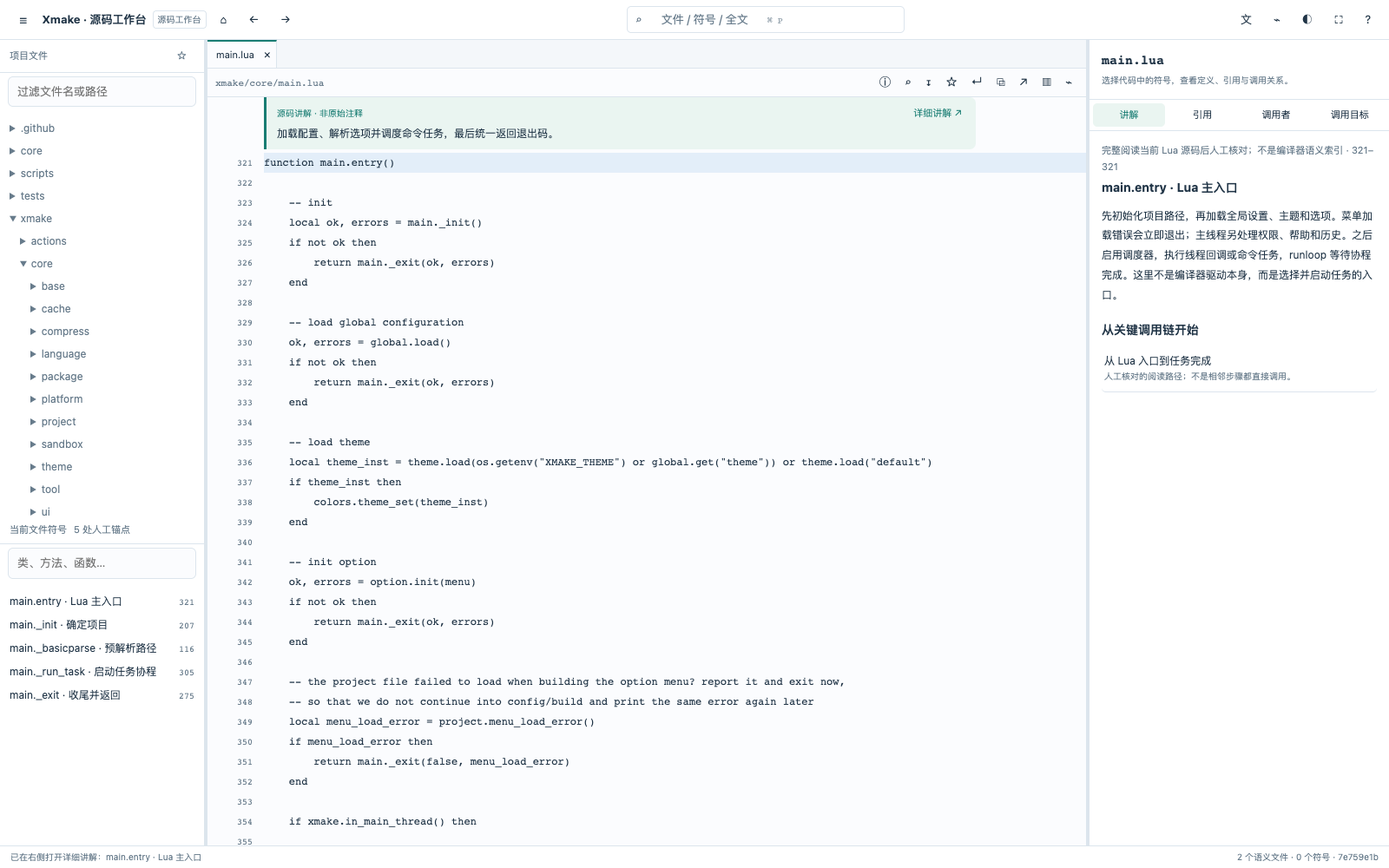
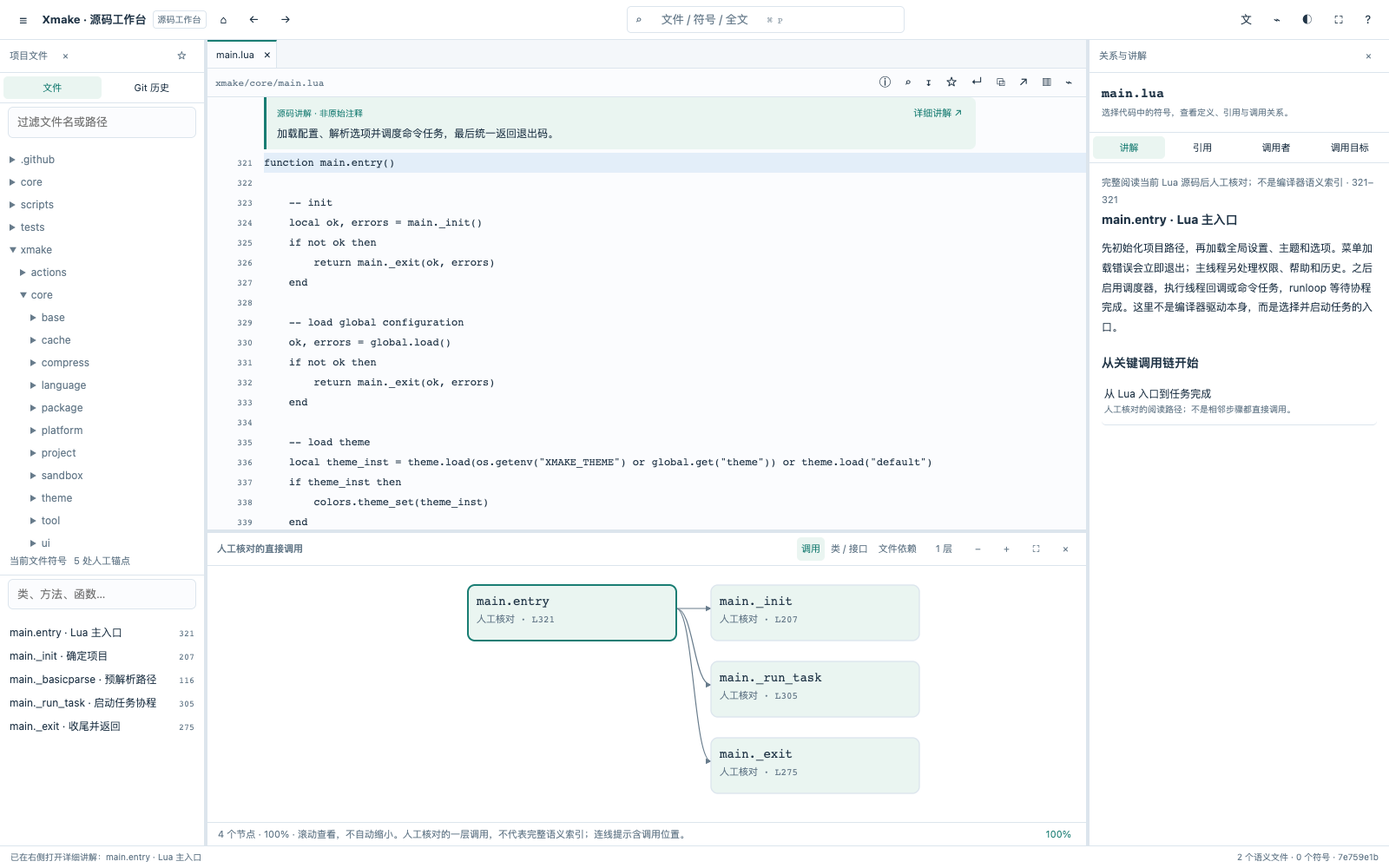
update skills

diff --git a/skills/source-insight/assets/app.js b/skills/source-insight/assets/app.js
@@ -8,6 +8,8 @@
   }
   const esc = x => String(x ?? '').replace(/[&<>"']/g, c => ({'&':'&amp;','<':'&lt;','>':'&gt;','"':'&quot;',"'":'&#39;'}[c]));
   const fileMap = new Map(D.files.map(f => [f.id, f])), symMap = new Map(D.symbols.map(s => [s.id, s]));
+  const manualKey=a=>'manual:'+a.file+':'+a.line;
+  const manualNodes=new Map((D.analysis.manualCalls||[]).flatMap(c=>[c.from,c.to]).map(a=>[manualKey(a),a]));
   const explained = new Set((D.analysis.notes||[]).map(n=>n.symbolId).filter(Boolean));
   const badge = id => explained.has(id)?'<span class="explained-badge" title="已有源码讲解">讲解</span>':'';
   const key = 'source-workbench:' + D.root;
@@ -16,7 +18,8 @@
   let current, symbol, selectedLine = 1, panel = 'explain', graphMode = 'both', depth = 1, zoom = 1, generation = 0;
   let tabs = (saved(':tabs') || []).filter(f => fileMap.get(f)?.readable), marks = (saved(':marks') || []).filter(m => fileMap.has(m.file));
   let searchMode = 'files', searchVersion = 0, chain, folded = new Set(), matches = [], matchCursor = -1;
-  let graphKey='', nodeLimit=13, docMode='summary';
+  let historyRefresh;
+  let graphKey='', nodeLimit=13, docMode='summary', nativeGraph=false;
   const outgoing = new Map(), incoming = new Map(), references = new Map();
   for (const call of D.calls) {
     if (!outgoing.has(call.from)) outgoing.set(call.from, []); outgoing.get(call.from).push(call);
@@ -141,7 +144,7 @@
     const token=++generation;status('读取 '+file);
     try{await load(file);}catch(e){status(e.message);return;}if(token!==generation)return;
     if(current!==file){docMode='summary';folded.clear();$('find-input').value='';}
-    current=file;selectedLine=Math.max(1,Math.min(Number(line)||1,f.lines));
+    current=file;historyRefresh?.();selectedLine=Math.max(1,Math.min(Number(line)||1,f.lines));
     if(selectedLine>1&&/\.(md|mdx|rst|txt)$/i.test(file))docMode='source';
     symbol=id?symMap.get(id):D.symbols.filter(s=>s.file===file&&s.line<=selectedLine&&s.end>=selectedLine).sort((a,b)=>(a.end-a.line)-(b.end-b.line))[0];
     for(const id of [...folded]){const s=symMap.get(id);if(selectedLine>s.line&&selectedLine<=s.end)folded.delete(id);}
@@ -180,17 +183,38 @@
       return `<div class="relation"><button data-file="${esc(r.file)}" data-line="${r.line}" title="跳到使用位置">${esc(r.expression||other?.qualified||'引用')} <small>${esc(r.file)}:${r.line}</small></button>${r.certainty?`<span class="tag">${certainty(r)}${r.deferred?' · 回调中':''}</span>`:''}${other?`<button data-symbol="${esc(other.id)}" title="跳到关联定义">${esc(other.qualified)} ↗</button>`:''}</div>`;
     }).join('')+(items.length>600?'<p>列表截取前 600 处；索引保留完整数据。</p>':'');
   }
+  function graphView() {
+    const full=$('graph-pane').classList.contains('expanded');
+    const button=document.querySelector('[data-action=graph-fullscreen]');
+    button.title=full?'退出调用图全屏（Esc）':'全屏调用图';button.setAttribute('aria-label',button.title);
+    button.setAttribute('aria-pressed',String(full));button.textContent=full?'⊡':'⛶';
+    const toggle=document.querySelector('[data-action=graph]');
+    const hidden=document.body.classList.contains('hidden-graph');
+    toggle.title=hidden?'显示调用图':'隐藏调用图';toggle.setAttribute('aria-label',toggle.title);toggle.setAttribute('aria-expanded',String(!hidden));
+  }
+  async function exitGraph() {
+    if(document.fullscreenElement===$('graph-pane'))await document.exitFullscreen();
+    nativeGraph=false;$('graph-pane').classList.remove('expanded');graphView();
+  }
+  document.addEventListener('fullscreenchange',()=>{
+    if(nativeGraph&&document.fullscreenElement!==$('graph-pane')){nativeGraph=false;$('graph-pane').classList.remove('expanded');graphView();}
+  });
   function graph(){
     let center=symbol?.id,nodes=new Map(),edges=[];
+    const manual=!center&&graphMode==='both'&&manualNodes.has(manualKey({file:current,line:selectedLine}));
+    if(manual)center=manualKey({file:current,line:selectedLine});
     const nextKey=(graphMode==='imports'?current:center)+':'+graphMode+':'+depth;
     if(nextKey!==graphKey){graphKey=nextKey;nodeLimit=13;$('graph').scrollTop=0;$('graph').scrollLeft=0;}
     const omitted=new Set();
     const add=(id,col,limit=nodeLimit)=>{if(nodes.has(id))return true;if(nodes.size>=limit){omitted.add(id);return false;}nodes.set(id,{id,col});omitted.delete(id);return true;};
-    if(graphMode==='imports'){
+    if(manual){
+      add(center,1);
+      for(const c of D.analysis.manualCalls){const from=manualKey(c.from),to=manualKey(c.to);if(from===center||to===center){add(from,from===center?1:0);add(to,to===center?1:2);edges.push({from,to,kind:`人工核对 · ${c.file}:${c.line} · ${c.note||'直接调用'}`});}}
+    }else if(graphMode==='imports'){
       center=current;if(!center)return;add(center,1);
       for(const e of D.imports){if(e.from===center&&e.to){add(e.to,2);edges.push({from:center,to:e.to});}else if(e.to===center){add(e.from,0);edges.push({from:e.from,to:center});}}
     }else{
-      if(!center){$('graph').innerHTML='<p class="empty">选中函数后显示调用图，选中类或接口可查看类型关系。</p>';return;}
+      if(!center){$('graph-caption').textContent='';$('graph').innerHTML='<p class="empty">选中函数后显示调用图，选中类或接口可查看类型关系。</p>';return;}
       add(center,depth);
       if(graphMode==='types'){
         for(const e of D.inheritance){if(e.from===center||e.to===center){add(e.from,e.from===center?depth:depth-1);add(e.to,e.to===center?depth:depth+1);edges.push(e);}}
@@ -210,9 +234,9 @@
     const unique=new Map(edges.map(e=>[e.from+'>'+e.to,e]));edges=[...unique.values()];
     const counts=new Map();for(const n of nodes.values()){const row=counts.get(n.col)||0;counts.set(n.col,row+1);n.x=20+n.col*280;n.y=22+row*88;}
     const width=(Math.max(...[...nodes.values()].map(n=>n.col))+1)*280+20,height=Math.max(160,Math.max(...counts.values())*86+45);
-    $('graph').innerHTML=`<svg viewBox="0 0 ${width} ${height}" style="width:${width*zoom}px;height:${height*zoom}px;min-width:0" aria-label="静态关系图"><defs><marker id="arrow" viewBox="0 0 10 10" refX="9" refY="5" markerWidth="6" markerHeight="6" orient="auto-start-reverse"><path d="M0 0L10 5L0 10z" fill="var(--muted)"/></marker></defs>${edges.map(e=>{const a=nodes.get(e.from),b=nodes.get(e.to),right=b.x>a.x;const sx=a.x+(right?240:0),ex=b.x+(right?0:240);return `<path class="graph-edge ${e.certainty==='contract'?'contract':''}" d="M${sx} ${a.y+27} C${(sx+ex)/2} ${a.y+27},${(sx+ex)/2} ${b.y+27},${ex} ${b.y+27}" marker-end="url(#arrow)"><title>${esc(e.kind||e.certainty||'调用 / 依赖')}</title></path>`;}).join('')}${[...nodes.values()].map(n=>{const s=symMap.get(n.id),name=s?.qualified||n.id.split('/').pop(),sub=s?`${explained.has(s.id)?'已讲解 · ':''}${s.kind} · L${s.line}`:n.id;return `<g class="graph-node ${n.id===center?'selected':''}" ${s?`data-symbol="${esc(n.id)}"`:`data-file="${esc(n.id)}"`} tabindex="0" role="button" aria-label="${esc(name)}"><title>${esc(name+'\n'+sub)}</title><rect x="${n.x}" y="${n.y}" width="240" height="64" rx="8"/><text x="${n.x+10}" y="${n.y+23}">${esc(name.length>28?name.slice(0,26)+'…':name)}</text><text class="sub" x="${n.x+10}" y="${n.y+43}">${esc(sub.length>30?'…'+sub.slice(-28):sub)}</text></g>`;}).join('')}</svg>`;
-    $('graph-title').textContent=graphMode==='imports'?'文件依赖':graphMode==='types'?'extends / implements':'调用者 → 当前 → 调用目标';
-    $('graph-caption').innerHTML=`<span>${nodes.size} 个节点 · ${Math.round(zoom*100)}% · 滚动查看，不自动缩小${omitted.size?` · 当前展开范围另有 ${omitted.size} 个节点未显示`:''}。${graphMode==='both'?'完整调用位置见右侧；虚线表示接口或声明。':'箭头指向依赖或基类型。'}</span>${omitted.size&&nodeLimit<61?'<button data-action="graph-more">展开更多</button>':''}<button data-action="zoom-reset" title="恢复清晰字号">100%</button>`;
+    $('graph').innerHTML=`<svg viewBox="0 0 ${width} ${height}" style="width:${width*zoom}px;height:${height*zoom}px;min-width:0" aria-label="静态关系图"><defs><marker id="arrow" viewBox="0 0 10 10" refX="9" refY="5" markerWidth="6" markerHeight="6" orient="auto-start-reverse"><path d="M0 0L10 5L0 10z" fill="var(--muted)"/></marker></defs>${edges.map(e=>{const a=nodes.get(e.from),b=nodes.get(e.to),right=b.x>a.x;const sx=a.x+(right?240:0),ex=b.x+(right?0:240);return `<path class="graph-edge ${e.certainty==='contract'?'contract':''}" d="M${sx} ${a.y+27} C${(sx+ex)/2} ${a.y+27},${(sx+ex)/2} ${b.y+27},${ex} ${b.y+27}" marker-end="url(#arrow)"><title>${esc(e.kind||e.certainty||'调用 / 依赖')}</title></path>`;}).join('')}${[...nodes.values()].map(n=>{const s=symMap.get(n.id),m=manualNodes.get(n.id),name=s?.qualified||m?.name||n.id.split('/').pop(),sub=m?`人工核对 · L${m.line}`:s?`${explained.has(s.id)?'已讲解 · ':''}${s.kind} · L${s.line}`:n.id;return `<g class="graph-node ${n.id===center?'selected':''}" ${s?`data-symbol="${esc(n.id)}"`:`data-file="${esc(m?.file||n.id)}" data-line="${m?.line||1}"`} tabindex="0" role="button" aria-label="${esc(name)}"><title>${esc(name+'\n'+sub)}</title><rect x="${n.x}" y="${n.y}" width="240" height="64" rx="8"/><text x="${n.x+10}" y="${n.y+23}">${esc(name.length>28?name.slice(0,26)+'…':name)}</text><text class="sub" x="${n.x+10}" y="${n.y+43}">${esc(sub.length>30?'…'+sub.slice(-28):sub)}</text></g>`;}).join('')}</svg>`;
+    $('graph-title').textContent=manual?'人工核对的直接调用':graphMode==='imports'?'文件依赖':graphMode==='types'?'extends / implements':'调用者 → 当前 → 调用目标';
+    $('graph-caption').innerHTML=`<span>${nodes.size} 个节点 · ${Math.round(zoom*100)}% · 滚动查看，不自动缩小${omitted.size?` · 当前展开范围另有 ${omitted.size} 个节点未显示`:''}。${manual?'人工核对的一层调用，不代表完整语义索引；连线提示含调用位置。':graphMode==='both'?'完整调用位置见右侧；虚线表示接口或声明。':'箭头指向依赖或基类型。'}</span>${omitted.size&&nodeLimit<61?'<button data-action="graph-more">展开更多</button>':''}<button data-action="zoom-reset" title="恢复清晰字号">100%</button>`;
   }
   function search(mode=searchMode){searchMode=mode;$('search-dialog').showModal();document.querySelectorAll('[data-search]').forEach(b=>b.classList.toggle('active',b.dataset.search===mode));$('search-input').value='';$('search-input').focus();results();}
   function showResults(items,label){$('search-status').textContent=label;$('results').innerHTML=items.join('')||'<p class="empty">没有结果。</p>';}
@@ -246,6 +270,7 @@
     $('info-dialog').showModal();
   }
   document.addEventListener('click',async event=>{
+    if(event.target.closest('.graph-node')&&$('graph-pane').classList.contains('expanded'))await exitGraph();
     const docTab=event.target.closest('[data-doc]');if(docTab){docMode=docTab.dataset.doc;code();$('code').scrollTop=0;return;}
     const explanation=event.target.closest('[data-explain]');
     if(explanation){
@@ -267,6 +292,14 @@
     const g=event.target.closest('[data-graph]');if(g){graphMode=g.dataset.graph;document.querySelectorAll('[data-graph]').forEach(el=>el.classList.toggle('active',el===g));graph();return;}
     const mode=event.target.closest('[data-search]');if(mode){searchMode=mode.dataset.search;document.querySelectorAll('[data-search]').forEach(el=>el.classList.toggle('active',el===mode));results();return;}
     const a=event.target.closest('[data-action]')?.dataset.action;if(!a)return;
+    if(a==='graph-fullscreen'){
+      if($('graph-pane').classList.contains('expanded'))await exitGraph();
+      else{document.body.classList.remove('hidden-graph');$('graph-pane').classList.add('expanded');graphView();try{nativeGraph=true;await $('graph-pane').requestFullscreen();}catch{nativeGraph=false;} }
+      return;
+    }
+    if(a==='graph-hide'){await exitGraph();document.body.classList.add('hidden-graph');graphView();return;}
+    if(a==='hide-left'){document.body.classList.remove('mobile-left');if(!matchMedia('(max-width:720px)').matches)document.body.classList.add('hidden-left');return;}
+    if(a==='hide-right'){document.body.classList.remove('mobile-right');if(!matchMedia('(max-width:720px)').matches)document.body.classList.add('hidden-right');return;}
     if(a==='entry'){const s=D.analysis.start;if(s){panel='explain';chain=undefined;go(s.file,s.line,s.symbolId);}return;}
     if(a==='file-intro'){$('code').scrollTop=0;return;}
     if(a==='graph-more'){nodeLimit=Math.min(61,nodeLimit+12);graph();return;}
@@ -275,7 +308,7 @@
     else if(a==='search-close'){$('search-dialog').close();searchVersion++;}else if(a==='info-close')$('info-dialog').close();else if(a==='help')help();
     else if(a==='sidebar')document.body.classList.toggle(matchMedia('(max-width:720px)').matches?'mobile-left':'hidden-left');
     else if(a==='inspector')document.body.classList.toggle(matchMedia('(max-width:720px)').matches?'mobile-right':'hidden-right');
-    else if(a==='graph')document.body.classList.toggle('hidden-graph');
+    else if(a==='graph'){document.body.classList.toggle('hidden-graph');graphView();}
     else if(a==='theme'){const theme=document.documentElement.dataset.theme==='dark'?'light':'dark';document.documentElement.dataset.theme=theme;try{localStorage.setItem('source-theme',theme);}catch{}}
     else if(a==='fullscreen'){try{if(document.fullscreenElement)await document.exitFullscreen();else await document.documentElement.requestFullscreen();}catch(e){status('浏览器未允许全屏：'+e.message);}}
     else if(a==='wrap')$('code').classList.toggle('wrap');
@@ -296,6 +329,11 @@
   $('search-dialog').addEventListener('close',()=>searchVersion++);
   $('find-input').oninput=()=>{matchCursor=-1;find();};$('find-input').onkeydown=e=>{if(e.key==='Enter')find(e.shiftKey?-1:1);};
   document.addEventListener('keydown',e=>{
+    if($('graph-pane').classList.contains('expanded')){
+      if(e.key==='Escape'){e.preventDefault();exitGraph();return;}
+      if(['ArrowDown','ArrowUp','ArrowLeft','ArrowRight','PageDown','PageUp'].includes(e.key)){e.preventDefault();const horizontal=['ArrowLeft','ArrowRight'].includes(e.key),amount=(['ArrowUp','ArrowLeft','PageUp'].includes(e.key)?-1:1)*(e.key.startsWith('Page')?$('graph').clientHeight*.8:69);$('graph').scrollBy(horizontal?amount:0,horizontal?0:amount);return;}
+      if(e.key!=='Enter'&&e.key!=='Tab'){e.preventDefault();return;}
+    }
     if(e.target.closest('input,textarea,dialog'))return;
     const mod=e.ctrlKey||e.metaKey;
     if(mod&&['p','t','f','l'].includes(e.key.toLowerCase())){e.preventDefault();const k=e.key.toLowerCase();if(k==='p')search('files');if(k==='t')search('symbols');if(k==='f'){if(e.shiftKey)search('text');else document.querySelector('[data-action=find]').click();}if(k==='l')document.querySelector('[data-action=line]').click();}
@@ -307,6 +345,7 @@
     $(id).onpointerdown=e=>{e.preventDefault();const start=e[axis],size=parseFloat(getComputedStyle(document.documentElement).getPropertyValue(variable));$(id).setPointerCapture(e.pointerId);$(id).onpointermove=m=>document.documentElement.style.setProperty(variable,Math.max(min,Math.min(max,size+(m[axis]-start)*sign))+'px');$(id).onpointerup=()=>{$(id).onpointermove=null;};};
   }
   function hash(){const p=new URLSearchParams(location.hash.slice(1));if(p.has('file'))open(p.get('file'),Number(p.get('line'))||1,p.get('symbol'));}
-  window.addEventListener('hashchange',hash);fileTree();
+  historyRefresh=window.initSourceHistory({data:D,currentFile:()=>current,openSource:go});
+  window.addEventListener('hashchange',hash);fileTree();graphView();
   if(location.hash.startsWith('#file='))hash();else{const first=D.analysis.start||saved(':last')||{file:D.files.find(f=>f.readable&&f.language==='typescript')?.id||D.files.find(f=>f.readable)?.id,line:1};if(first.file)go(first.file,first.line,first.symbolId||first.id);}
 })();

diff --git a/skills/source-insight/assets/index.html b/skills/source-insight/assets/index.html
@@ -1,10 +1,10 @@
 <!doctype html>
 <html lang="zh-CN"><head><meta charset="utf-8"><meta name="viewport" content="width=device-width,initial-scale=1"><title>源码工作台</title><script>try{document.documentElement.dataset.theme=localStorage.getItem('source-theme')||'light'}catch{}</script><link rel="stylesheet" href="style.css"></head>
 <body><header><button data-action="sidebar" title="显示或隐藏文件与符号" aria-label="显示或隐藏文件与符号">☰</button><strong id="title"></strong><span class="badge">源码工作台</span><button data-action="entry" title="回到主入口函数" aria-label="回到主入口函数">⌂</button><button data-action="back" title="后退 Alt+←">←</button><button data-action="forward" title="前进 Alt+→">→</button><button id="quick" data-action="search" title="搜索文件、符号和全文 Ctrl/⌘ P">⌕ <span>文件 / 符号 / 全文</span><kbd>⌘ P</kbd></button><button data-action="documents" title="关键文档 · 中文概要与译文" aria-label="关键文档">文</button><button data-action="chains" title="已分析的关键调用链">⌁</button><button data-action="theme" title="切换日夜主题">◐</button><button data-action="fullscreen" title="全屏">⛶</button><button data-action="help" title="使用帮助与分析范围">?</button></header>
-<div id="workspace"><aside id="left"><div class="pane-title">项目文件 <button data-action="bookmarks" title="查看书签">☆</button></div><input id="file-filter" aria-label="过滤文件" placeholder="过滤文件名或路径"><nav id="tree"></nav><div class="pane-title">当前文件符号 <span id="outline-count"></span></div><input id="symbol-filter" aria-label="过滤当前文件符号" placeholder="类、方法、函数…"><nav id="outline"></nav></aside><div class="resizer" id="left-resizer" role="separator" aria-label="调整文件栏宽度"></div>
-<main><nav id="tabs"></nav><div id="code-toolbar"><span id="breadcrumb"></span><button data-action="file-intro" title="查看文件介绍" aria-label="查看文件介绍">ⓘ</button><button data-action="find" title="文件内查找 Ctrl/⌘ F">⌕</button><button data-action="line" title="跳到行 Ctrl/⌘ L">↧</button><button data-action="bookmark" title="添加或移除当前行书签">☆</button><button data-action="wrap" title="自动换行">↵</button><button data-action="copy" title="复制当前函数或全文">⧉</button><button data-action="editor" title="在 VS Code 打开真实文件">↗</button><button data-action="inspector" title="显示或隐藏关系与讲解">▥</button><button data-action="graph" title="显示或隐藏调用图">⌁</button></div><div id="findbar" hidden><input id="find-input" placeholder="查找当前文件文本" aria-label="查找当前文件文本"><button data-action="find-prev" title="上一个匹配">↑</button><button data-action="find-next" title="下一个匹配">↓</button><span id="find-count"></span><button data-action="find-close" title="关闭查找">×</button></div><div id="doc-tabs" hidden></div><div id="code" tabindex="0" aria-label="源代码"></div><div class="resizer horizontal" id="graph-resizer" role="separator" aria-label="调整调用图高度"></div><section id="graph-pane"><div class="pane-title"><strong id="graph-title">调用关系</strong><div class="segmented"><button data-graph="both" class="active">调用</button><button data-graph="types">类 / 接口</button><button data-graph="imports">文件依赖</button></div><button data-action="depth" title="切换一层或两层调用">1 层</button><button data-action="zoom-out" title="缩小图">−</button><button data-action="zoom-in" title="放大图">+</button></div><div id="graph"></div><small id="graph-caption"></small></section></main>
-<div class="resizer" id="right-resizer" role="separator" aria-label="调整关系栏宽度"></div><aside id="right"><div id="symbol-head"></div><nav id="relation-tabs" class="segmented"><button data-panel="explain" class="active">讲解</button><button data-panel="references">引用</button><button data-panel="callers">调用者</button><button data-panel="callees">调用目标</button></nav><div id="inspector"></div></aside></div>
+<div id="workspace"><aside id="left"><div class="pane-title">项目文件 <button data-action="hide-left" title="隐藏文件侧栏" aria-label="隐藏文件侧栏">×</button><button data-action="bookmarks" title="查看书签">☆</button></div><nav class="segmented side-tabs"><button data-side-tab="files" class="active">文件</button><button data-side-tab="git">Git 历史</button></nav><section id="history-sidebar"><div class="segmented"><button data-history-scope="file">当前文件</button><button data-history-scope="all" class="active">整个项目</button></div><input id="history-filter" placeholder="搜索提交或 SHA" aria-label="搜索 Git 提交"><small id="history-scope-note"></small><nav id="history-list"></nav></section><input id="file-filter" aria-label="过滤文件" placeholder="过滤文件名或路径"><nav id="tree"></nav><div class="pane-title">当前文件符号 <span id="outline-count"></span></div><input id="symbol-filter" aria-label="过滤当前文件符号" placeholder="类、方法、函数…"><nav id="outline"></nav></aside><div class="resizer" id="left-resizer" role="separator" aria-label="调整文件栏宽度"></div>
+<main><nav id="tabs"></nav><div id="code-toolbar"><span id="breadcrumb"></span><button data-action="file-intro" title="查看文件介绍" aria-label="查看文件介绍">ⓘ</button><button data-action="find" title="文件内查找 Ctrl/⌘ F">⌕</button><button data-action="line" title="跳到行 Ctrl/⌘ L">↧</button><button data-action="bookmark" title="添加或移除当前行书签">☆</button><button data-action="wrap" title="自动换行">↵</button><button data-action="copy" title="复制当前函数或全文">⧉</button><button data-action="editor" title="在 VS Code 打开真实文件">↗</button><button data-action="inspector" title="显示或隐藏关系与讲解">▥</button><button data-action="graph" title="显示或隐藏调用图">⌁</button></div><div id="findbar" hidden><input id="find-input" placeholder="查找当前文件文本" aria-label="查找当前文件文本"><button data-action="find-prev" title="上一个匹配">↑</button><button data-action="find-next" title="下一个匹配">↓</button><span id="find-count"></span><button data-action="find-close" title="关闭查找">×</button></div><div id="doc-tabs" hidden></div><div id="code" tabindex="0" aria-label="源代码"></div><div class="resizer horizontal" id="graph-resizer" role="separator" aria-label="调整调用图高度"></div><section id="graph-pane"><div class="pane-title"><strong id="graph-title">调用关系</strong><div class="segmented"><button data-graph="both" class="active">调用</button><button data-graph="types">类 / 接口</button><button data-graph="imports">文件依赖</button></div><button data-action="depth" title="切换一层或两层调用">1 层</button><button data-action="zoom-out" title="缩小图">−</button><button data-action="zoom-in" title="放大图">+</button><button data-action="graph-fullscreen" title="全屏调用图" aria-label="全屏调用图" aria-pressed="false">⛶</button><button data-action="graph-hide" title="隐藏调用图" aria-label="隐藏调用图">×</button></div><div id="graph"></div><small id="graph-caption"></small></section></main>
+<div class="resizer" id="right-resizer" role="separator" aria-label="调整关系栏宽度"></div><aside id="right"><div class="pane-title">关系与讲解<button data-action="hide-right" title="隐藏讲解侧栏" aria-label="隐藏讲解侧栏">×</button></div><div id="symbol-head"></div><nav id="relation-tabs" class="segmented"><button data-panel="explain" class="active">讲解</button><button data-panel="references">引用</button><button data-panel="callers">调用者</button><button data-panel="callees">调用目标</button></nav><div id="inspector"></div></aside></div>
 <footer><span id="status" role="status"></span><span id="coverage"></span></footer>
 <dialog id="search-dialog"><div class="dialog-bar"><div class="segmented"><button data-search="files" class="active">文件</button><button data-search="symbols">符号</button><button data-search="text">全文</button><button data-search="explained">已讲解</button><button data-search="chains">调用链讲解</button><button data-search="documents">中文文档</button><button data-search="bookmarks">书签</button></div><button data-action="search-close" title="关闭">×</button></div><input id="search-input" aria-label="搜索" placeholder="输入名称；全文搜索按 Enter"><small id="search-status"></small><nav id="results"></nav></dialog>
 <dialog id="info-dialog"><button data-action="info-close" class="close" title="关闭">×</button><div id="info"></div></dialog>
-<script src="data.js"></script><script src="app.js"></script></body></html>
+<dialog id="history-dialog"><div class="history-header"><strong>Git 历史与代码差异</strong><button data-history-close title="关闭 Git 差异" aria-label="关闭 Git 差异">×</button></div><div id="history-content"></div></dialog><script src="history-view.js"></script><script src="data.js"></script><script src="app.js"></script></body></html>

diff --git a/skills/source-insight/assets/history-view.js b/skills/source-insight/assets/history-view.js
@@ -1,0 +1,52 @@
+// Git 快照查看器：提交说明、当前文件过滤与真实补丁共用一个离线数据源。
+window.initSourceHistory = ({data,currentFile,openSource}) => {
+  const $=id=>document.getElementById(id), esc=x=>String(x??'').replace(/[&<>"']/g,c=>({'&':'&amp;','<':'&lt;','>':'&gt;','"':'&quot;',"'":'&#39;'}[c]));
+  window.SOURCE_HISTORY={};
+  let scope='all',selection,selectedFile='',view='unified',request=0;
+  function refresh(){
+    const q=$('history-filter').value.toLowerCase();
+    const entries=(data.history?.commits||[]).filter(c=>(scope==='all'||c.files.includes(currentFile()))&&(c.title+' '+c.id).toLowerCase().includes(q));
+    $('history-list').innerHTML=entries.map(c=>`<button class="history-item" data-commit="${esc(c.id)}"><b>${esc(c.title)}</b><small>${c.working?'工作区':c.id.slice(0,8)+' · '+c.date.slice(0,10)} · ${c.files.length} 文件</small></button>`).join('')||'<p class="empty">此范围没有收录的改动。可切换整个项目；历史范围有限。</p>';
+    $('history-scope-note').textContent=scope==='file'?currentFile()||'先打开一个文件':data.history?.range||'尚未生成 Git 快照，请重新构建。';
+  }
+  async function selectCommit(id){
+    const token=++request,meta=data.history?.commits.find(c=>c.id===id);if(!meta)return;
+    $('history-dialog').showModal();$('history-content').innerHTML='<p class="empty">读取提交差异…</p>';
+    try{
+      if(!window.SOURCE_HISTORY[id])await new Promise((resolve,reject)=>{const script=document.createElement('script');script.src=meta.chunk;script.onload=()=>{script.remove();resolve();};script.onerror=()=>{script.remove();reject(new Error('Git 快照加载失败'));};document.head.append(script);});
+      if(token!==request)return;selection=window.SOURCE_HISTORY[id];selectedFile=selection.files.find(f=>f.file===currentFile())?.file||selection.files[0]?.file;render();
+    }catch(error){if(token===request)$('history-content').textContent=error.message;}
+  }
+  function diff(patch){
+    let old=0,next=0;const rows=[];
+    for(const text of patch.split('\n')){
+      const hunk=text.match(/^@@ -(\d+)(?:,\d+)? \+(\d+)(?:,\d+)? @@/);
+      if(hunk){old=Number(hunk[1]);next=Number(hunk[2]);rows.push({kind:'hunk',text});continue;}
+      if(!old||/^(diff |index |--- |\+\+\+ |new file|deleted file|Binary |\\)/.test(text)){rows.push({kind:'meta',text});continue;}
+      if(text.startsWith('-'))rows.push({kind:'delete',text:text.slice(1),old:old++});
+      else if(text.startsWith('+'))rows.push({kind:'add',text:text.slice(1),next:next++});
+      else if(text.startsWith(' '))rows.push({kind:'context',text:text.slice(1),old:old++,next:next++});
+      else rows.push({kind:'meta',text});
+    }
+    if(view==='unified')return rows.map(r=>`<div class="diff-row ${r.kind}"><span>${r.old||''}</span><span>${r.next||''}</span><code>${r.kind==='add'?'+':r.kind==='delete'?'-':' '}${esc(r.text)}</code></div>`).join('');
+    const result=[];
+    const cell=(r,side)=>`<div class="diff-cell ${r?.kind||''}"><span>${r?.[side]||''}</span><code>${esc(r?.text||'')}</code></div>`;
+    for(let i=0;i<rows.length;){const row=rows[i];if(row.kind==='add'||row.kind==='delete'){const removed=[],added=[];while(i<rows.length&&['add','delete'].includes(rows[i].kind)){const r=rows[i++];(r.kind==='delete'?removed:added).push(r);}for(let j=0;j<Math.max(removed.length,added.length);j++)result.push('<div class="diff-pair">'+cell(removed[j],'old')+cell(added[j],'next')+'</div>');}else{result.push(row.kind==='context'?'<div class="diff-pair">'+cell(row,'old')+cell(row,'next')+'</div>':`<div class="diff-meta">${esc(row.text)}</div>`);i++;}}
+    return result.join('');
+  }
+  function render(){
+    const c=selection,f=c.files.find(f=>f.file===selectedFile);
+    $('history-content').innerHTML=`<section class="commit-summary"><small>${c.working?'工作区对比 HEAD':esc(c.id+' · '+c.author+' · '+c.date)} · ${c.analyzed?'源码分析':'未人工分析'}</small><h2>${esc(c.title)}</h2><p>${esc(c.summary)}</p>${c.body?`<details><summary>提交原文</summary><p>${esc(c.body)}</p></details>`:''}</section><div class="history-layout"><nav class="commit-files">${c.files.map(item=>`<button class="history-item ${item.file===selectedFile?'active':''}" data-diff-file="${esc(item.file)}"><b>${esc(item.file)}</b><small>+${esc(item.add)} −${esc(item.del)}${item.analyzed?' · 已讲解':''}</small></button>`).join('')}${c.totalFiles>c.files.length?'<p>文件清单已截断。</p>':''}</nav><section class="file-diff">${f?`<div class="diff-toolbar"><strong>${esc(f.file)}</strong><button data-diff-view="unified" aria-pressed="${view==='unified'}">统一</button><button data-diff-view="split" aria-pressed="${view==='split'}">左右</button><button data-history-source="${esc(f.file)}" title="查看当前快照源码">↗</button></div><p class="diff-summary">${esc(f.summary)}${f.truncated?' 差异已截断。':''}</p><div class="diff-code">${diff(f.patch)}</div>`:'<p class="empty">没有已跟踪文件的改动。</p>'}</section></div>`;
+  }
+  document.addEventListener('click',event=>{
+    const tab=event.target.closest('[data-side-tab]');if(tab){document.body.classList.toggle('show-history',tab.dataset.sideTab==='git');document.querySelectorAll('[data-side-tab]').forEach(b=>b.classList.toggle('active',b===tab));refresh();return;}
+    const filter=event.target.closest('[data-history-scope]');if(filter){scope=filter.dataset.historyScope;document.querySelectorAll('[data-history-scope]').forEach(b=>b.classList.toggle('active',b===filter));refresh();return;}
+    const commit=event.target.closest('[data-commit]');if(commit){selectCommit(commit.dataset.commit);return;}
+    const file=event.target.closest('[data-diff-file]');if(file){selectedFile=file.dataset.diffFile;render();return;}
+    const mode=event.target.closest('[data-diff-view]');if(mode){view=mode.dataset.diffView;render();return;}
+    const source=event.target.closest('[data-history-source]');if(source){$('history-dialog').close();openSource(source.dataset.historySource);return;}
+    if(event.target.closest('[data-history-close]'))$('history-dialog').close();
+  });
+  $('history-dialog').addEventListener('close',()=>request++);
+  $('history-filter').oninput=refresh;refresh();return refresh;
+};

diff --git a/skills/source-insight/assets/style.css b/skills/source-insight/assets/style.css
@@ -29,3 +29,13 @@
 .reading-doc #graph-pane,.reading-doc #graph-resizer{display:none}
 .document{max-width:900px;margin:10px auto;padding:20px 32px;font:14px/1.9 system-ui;overflow-wrap:anywhere}.document small{font-size:11px;color:var(--muted)}.document h1{font-size:26px}.document h2{font-size:20px;margin-top:30px}.document h3{font-size:17px}.document p{white-space:pre-wrap}.document pre{overflow:auto;background:var(--bg);border:1px solid var(--line);padding:15px;border-radius:8px;font:12px/1.8 monospace;white-space:pre}.document code{font-family:ui-monospace,monospace;color:var(--accent)}.doc-link{color:var(--accent);padding:0;text-decoration:underline}.doc-next{display:flex;gap:6px;flex-wrap:wrap;border-top:1px solid var(--line);padding-top:16px}.doc-next button{background:var(--soft);color:var(--accent)}
 @media(max-width:720px){.document{padding:12px 18px}.doc-tabs{gap:2px;padding:5px}.doc-tabs button{padding:4px 5px;font-size:11px}}
+
+/* 独立图视图：原面板留在 DOM 中，恢复时保留缩放、滚动与高度。 */
+#graph-pane.expanded,#graph-pane:fullscreen{position:fixed;inset:0;z-index:30;width:100vw;height:100dvh;min-height:0;display:flex;background:var(--panel);padding:8px}
+#graph-pane .pane-title>button:last-child{margin-left:0}#graph-pane .pane-title>button{flex-shrink:0}
+#graph-title{min-width:0;overflow:hidden;text-overflow:ellipsis;white-space:nowrap}
+@media(min-width:721px){.hidden-left #left,.hidden-right #right{visibility:hidden}}
+@media(max-width:720px){#graph-pane .pane-title{flex-wrap:wrap}#graph-title{flex:1 0 100%}#graph-pane .segmented{margin-left:0;margin-right:auto}#graph-caption{font-size:10px}}
+
+#history-sidebar{display:none;flex-direction:column;min-height:120px;height:50%;overflow:hidden}.show-history #history-sidebar{display:flex}.show-history #tree,.show-history #file-filter{display:none}#history-sidebar>input{margin:6px 8px}#history-scope-note{font-size:10px;color:var(--muted);padding:3px 10px;overflow-wrap:anywhere}#history-list{overflow:auto;flex:1}.history-item{display:block;width:100%;padding:9px 10px;text-align:left;border-bottom:1px solid var(--line);overflow-wrap:anywhere}.history-item b{display:block;font-size:12px;font-weight:500}.history-item small{font-size:10px;color:var(--muted)}.history-item.active{background:var(--soft);color:var(--accent)}
+#history-dialog{inset:0;margin:0;width:100vw;max-width:none;height:100dvh;max-height:none;border:0;border-radius:0;padding:0;overflow:hidden}#history-dialog[open]{display:flex;flex-direction:column}.history-header{display:flex;align-items:center;justify-content:space-between;padding:8px 16px;border-bottom:1px solid var(--line)}#history-content{display:flex;flex-direction:column;min-height:0;flex:1}.commit-summary{padding:12px 20px;max-height:25vh;overflow:auto}.commit-summary h2{font-size:18px;margin:3px 0}.commit-summary small{color:var(--muted);font-size:11px}.commit-summary p{font-size:12px;white-space:pre-wrap;margin:5px 0}.history-layout{display:grid;grid-template-columns:260px minmax(0,1fr);min-height:0;flex:1;border-top:1px solid var(--line)}.commit-files{overflow:auto;border-right:1px solid var(--line)}.file-diff{min-width:0;display:flex;flex-direction:column;overflow:hidden}.diff-toolbar{display:flex;align-items:center;gap:6px;padding:7px 12px;background:var(--bg)}.diff-toolbar strong{flex:1;font:12px monospace;overflow-wrap:anywhere}.diff-toolbar button[aria-pressed=true]{background:var(--soft);color:var(--accent)}.diff-summary{font-size:12px;padding:4px 12px;margin:4px 0;white-space:pre-wrap}.diff-code{overflow:auto;flex:1;font:12px/22px ui-monospace,monospace;background:var(--code);min-height:0}.diff-row{display:flex;min-width:100%;width:max-content}.diff-row>span{width:45px;flex-shrink:0;color:var(--muted);text-align:right;padding-right:8px}.diff-code code{white-space:pre;padding:0 8px;font:inherit}.diff-row.add,.diff-cell.add{background:#dff4e7;color:#214b31}.diff-row.delete,.diff-cell.delete{background:#fbe5e5;color:#763535}.diff-row.hunk,.diff-meta{background:var(--selected);color:var(--muted)}.diff-pair{display:grid;grid-template-columns:minmax(0,1fr) minmax(0,1fr)}.diff-cell{display:flex;min-width:0;overflow-x:auto;border-right:1px solid var(--line)}.diff-cell>span{min-width:45px;color:var(--muted);text-align:right}.diff-meta{white-space:pre-wrap;padding:0 8px}.diff-row.meta{color:var(--muted)}[data-theme=dark] .diff-row.add,[data-theme=dark] .diff-cell.add{background:#183e32;color:#c3ead2}[data-theme=dark] .diff-row.delete,[data-theme=dark] .diff-cell.delete{background:#472c34;color:#f3c1c1}@media(max-width:720px){.history-layout{grid-template-columns:1fr;grid-template-rows:110px minmax(0,1fr)}.commit-files{border-bottom:1px solid var(--line)}.commit-summary{max-height:22vh;padding:8px 12px}.diff-toolbar{flex-wrap:wrap}.diff-toolbar strong{flex-basis:100%}}

diff --git a/README.md b/README.md
@@ -15,10 +15,11 @@
 
 *以 Xmake 项目生成页面为例，点击图片查看大图。*
 
-默认打开实际主入口函数，直接进入源码工作台，不按 PPT 编排。文件树、当前文件符号、代码和关系面板共同导航，调用图与真实文件位置联动，分批展开并保持可读字号。Xmake 预览展示 Lua 原文和人工行级讲解；内置编译器语义引用目前用于 JS/TS。
+默认打开实际主入口函数，直接进入源码工作台，不按 PPT 编排。文件树、当前文件符号、代码和关系面板共同导航，调用图与真实文件位置联动，分批展开并保持可读字号。Xmake 预览展示 Lua 原文、人工核对的直接调用图和行级讲解；内置编译器语义引用目前用于 JS/TS。
 
-- **源码阅读**：多标签、前后跳转、行号定位、函数折叠、语法着色、文件内查找、书签、复制原始代码、本地编辑器定位、全屏和夜间模式；可隐藏和调整各面板。
+- **源码阅读**：多标签、前后跳转、行号定位、函数折叠、语法着色、文件内查找、书签、复制原始代码、本地编辑器定位、全屏和夜间模式；左右侧栏可分别隐藏与恢复，调用图支持独立全屏、Esc 退出和隐藏；可调整各面板。
 - **导航与关系**：全局文件、符号和全文搜索；JS/TS 编译器静态定义与引用、调用者与调用目标、类与接口继承、文件导入关系；区分实际使用位置和声明位置。
+- **Git 历史与 diff**：侧栏按当前文件或整个项目筛选近期提交；查看提交整体说明、逐文件说明、统一/左右代码差异和已跟踪工作区修改。关键提交由 Agent 阅读补丁后分析，其余明确标为自动统计。
 - **文件介绍与中文文档**：重要文件开头说明职责、主要函数和阅读顺序；关键 README、上手和接口文档提供中文概要、完整译文与原文对照，保留代码块并校验原文版本。
 - **深入讲解**：函数上方显示短摘要，一键打开右侧的参数、返回值、状态变化和设计分析；符号列表、搜索与调用图标出已讲解位置。支持原注释中文解读与原文对照，优先覆盖重要或复杂实现；调用链明确区分直接调用、回调与协议边界。
 - **分析范围**：内置 JS/TS 语义索引，其他语言提供文本阅读与搜索；接口、动态调用和未知目标明确标记。只读快照，不宣称具备完整运行时调用分析、调试或重构。
@@ -142,6 +143,7 @@ skills/source-insight/
 ├── references/analysis-format.md # 函数与调用链讲解格式
 ├── scripts/build.mjs             # 编译器索引与网站构建
 ├── scripts/pack.mjs              # 关系数据压缩与界面打包
+├── scripts/history.mjs           # 本地 Git 历史与工作区差异快照
 ├── scripts/build.test.mjs        # 语义绑定和边界验证
 └── assets/                       # 离线源码工作台
 ```

diff --git a/skills/source-insight/SKILL.md b/skills/source-insight/SKILL.md
@@ -50,6 +50,10 @@ node <skill-directory>/scripts/build.mjs \
 
 调用图默认只展示局部关系，保持节点实际像素字号，不为塞入全部引用而缩小到无法阅读。更多节点通过滚动、分批展开和切换中心查看；显示截断范围，完整位置仍可从关系列表进入。展开后字号不得下降。
 
+调用图提供独立全屏、退出和隐藏，左右侧栏分别可隐藏；恢复入口始终可见。全屏退出后保留缩放和布局；Esc 可退出，点击图节点回到对应源码。非 JS/TS 的已核对调用可用人工关系图，必须附真实声明和调用行号，显式标为人工核对，不混入编译器索引计数。
+
+侧栏提供 Git 历史，支持当前文件与整个项目筛选。通过本地 Git 导出最近三个月最多 40 个提交及已跟踪工作区修改，清楚显示范围、第一父提交比较、截断与重命名处理方式。提交详情包含整体改动说明、逐文件说明、统一及左右 diff 和当前源码入口。选择与核心调用链有关的关键提交，阅读补丁后说明触发条件、前后行为及架构关联，存入项目的 gitNotes；没有分析的条目明确标为自动统计。不要从提交标题推测代码行为，也不要把当前工作区文件当成历史版本。
+
 运行脚本测试，并在实际项目用浏览器检查：同名函数不会混淆，别名导入能跳到真实声明，调用目标与调用位置入口不同，回调/接口/未知目标标签准确，代码中的特殊 HTML 文本不执行，完整源码和说明不串文件。检查全文搜索中断、图节点上限、窄屏、主题刷新、后退和代码跳转后的行号。索引未解决的边界写进交付说明。
 
 更新时重新生成索引，校验人工讲解锚点，阅读改变的实现后再改解释。不要修改被分析项目的产品源码。交付网站路径、复现命令、已讲解路径及静态分析限制；通用资源留在技能仓库，项目案例与生成站点留在目标项目。

diff --git a/skills/source-insight/references/analysis-format.md b/skills/source-insight/references/analysis-format.md
@@ -54,6 +54,10 @@
 
 ## 文件介绍与关键文档
 
+`manualCalls` 可补充不支持语义索引的语言：每条包含 `from: {file,line,name}`、`to: {file,line,name}`，以及调用位置 `file`、`line` 和可选 `note`。节点跳转声明，连线提示调用证据；仅展示当前锚点的一层已核对关系，不声称全量调用分析。构建器校验锚点有效，但正确性仍需要阅读实现。
+
+`gitNotes` 数组每项为 `{commit, summary, files: [{file, summary}]}`，commit 使用完整 SHA 或 `working`。整体摘要解释问题、行为改变和架构关联；文件摘要解释各文件在修改中的作用。构建器通过 `scripts/history.mjs` 导出本地 Git 快照，按提交分块加载。工作区与 HEAD 比较，包含暂存和未暂存的已跟踪文件，不包含未跟踪文件。合并提交与第一父提交比较；重命名按删除和新增分别展示。超过三个月、40 个提交、每提交 100 文件、每文件 100 KB 或每提交约 2 MB 的部分明确标记未收录。`assets/history-view.js` 展示安全转义的真实补丁与双层说明。
+
 `fileNotes` 是文件介绍数组，每项包含 `file`、一句职责 `summary`，以及介绍主要声明、合作关系和阅读顺序的 `body`。代码视图文件开头显示它，不改变真实行号。无人工介绍时只自动提取顶层声明并标注尚未深入分析。
 
 `documents` 是文档翻译数组，每项包含 `file`、中文理解 `summary`、完整 Markdown 译文 `translation`、对应原文件字节的 SHA-256 `sourceHash`，以及可选 `related: [{file, line, title}]`。路径均为被分析仓库内相对路径。构建器检查文件、摘要、译文、原文哈希和关联行号。命令和代码块不翻译；原文段落译文与中文分析分开。当前安全渲染器支持标题、段落、行内代码、代码块和链接，复杂表格可改成逐项说明；不执行原始 HTML。缺少译文时明确显示未翻译，不能自动生成占位译文。
